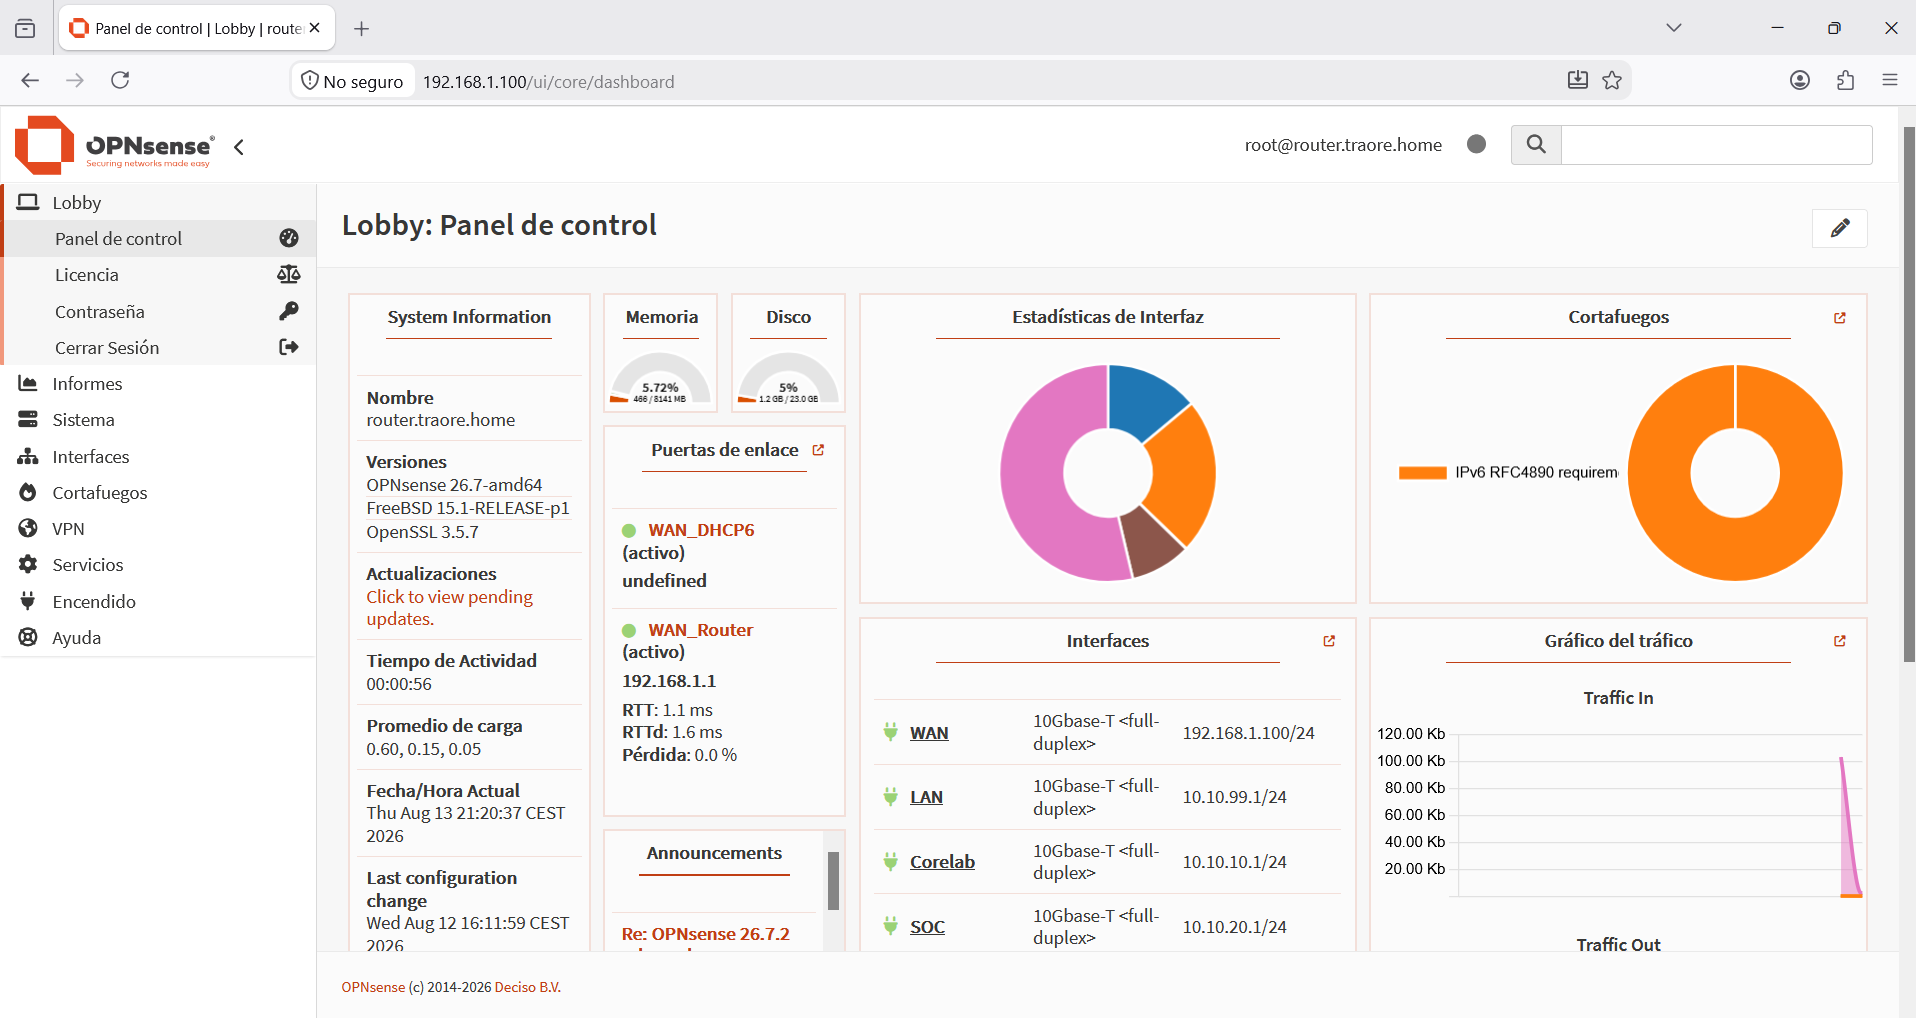
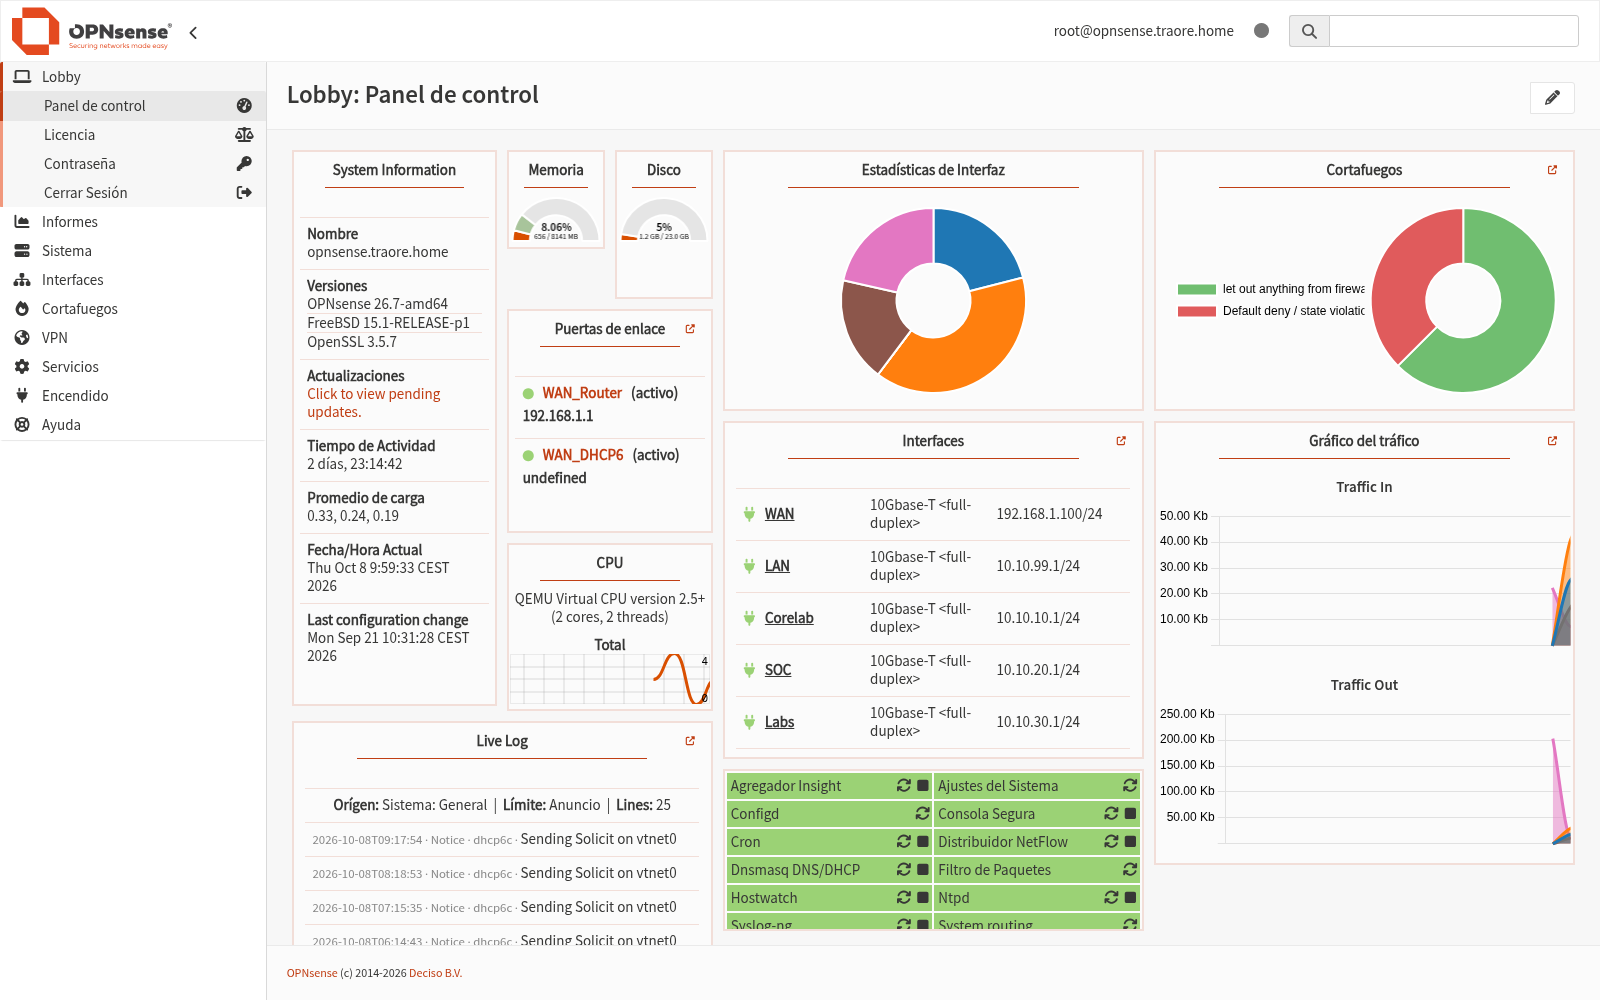
Documentación y capturas de pantalla de OPNsense (firewall y router inter-VLAN)

diff --git a/docs/services/opnsense.md b/docs/services/opnsense.md
@@ -1,0 +1,93 @@
+# OPNsense — Firewall y Router Inter-VLAN
+
+## Descripción
+
+OPNsense es el cortafuegos y router central del CoreLab. Implementa el
+enrutamiento entre las distintas VLANs del laboratorio, el NAT saliente
+compartido hacia Internet, el port-forwarding de los servicios publicados y
+el filtrado de tráfico, actuando como única puerta de enlace de los
+segmentos internos.
+
+## Objetivo
+
+- Segmentar el laboratorio en VLANs (Corelab, SOC, Labs, VPN, Management)
+  con enrutamiento inter-VLAN controlado por cortafuegos.
+- Centralizar la salida a Internet de todos los segmentos con NAT
+  compartido por la WAN.
+- Publicar los servicios internos (DNS, reverse proxy, VPN) mediante reglas
+  NAT de destino con soporte de hairpin, y filtrar el tráfico entrante/saliente.
+
+## Integración en la infraestructura
+
+- **Máquina:** VM virtual en Proxmox (VMID `1001`), hostname
+  `opnsense.traore.home`, OPNsense **26.7** (amd64) sobre FreeBSD 15.1.
+- **Interfaces físicas:**
+  - `WAN` (`vtnet0`): `192.168.1.100/24`, puerta de enlace `192.168.1.1`
+    (router Huawei BE3). La red de acceso es de doble NAT
+    (IP pública → Huawei → OPNsense).
+  - `LAN` (`vtnet1`): `10.10.99.1/24` (sin etiquetar) — *trunk* hacia el
+    `vmbr1` de Proxmox.
+- **VLANs (802.1Q sobre `vtnet1`):**
+
+  | Interfaz | VLAN | Red | Direccionamiento |
+  |---|---|---|---|
+  | Corelab | 10 | `10.10.10.0/24` | `10.10.10.1` (GW) |
+  | SOC | 20 | `10.10.20.0/24` | `10.10.20.1` (GW) |
+  | Labs | 30 | `10.10.30.0/24` | `10.10.30.1` (GW) |
+  | VPN | 40 | `10.10.40.0/24` | `10.10.40.1` (GW) |
+  | Management | 100 | `10.10.100.0/24` | `10.10.100.1` (GW) |
+
+- **NAT saliente:** todas las redes internas salen por `WAN` con rango
+  `1024:65535` y puertos estáticos para ISAKMP.
+- **NAT de destino (port-forward, con hairpin en todas las interfaces):**
+
+  | Puerto | Destino | Servicio |
+  |---|---|---|
+  | 53/tcp+udp | `10.10.10.3` | AdGuard Home (DNS *hijacking*) |
+  | 80/tcp | `10.10.10.5` | Nginx Proxy Manager (HTTP) |
+  | 443/tcp | `10.10.10.5` | Nginx Proxy Manager (HTTPS) |
+  | 8080/tcp | `10.10.10.3:80` | Interfaz de AdGuard Home |
+  | 81/tcp | `10.10.10.5:81` | Interfaz de NPM |
+  | 51820/udp | `10.10.40.2:51820` | wg-easy (VPN WireGuard) |
+
+- **Reglas de filtrado:** política por defecto de denegación; se permiten
+  SSH/ICMP (reglas flotantes), acceso a la GUI del cortafuegos (puerto
+  `8443`), salida general de las VLANs `Corelab` y `VPN`, y UDP `51820`
+  hacia wg-easy en la WAN.
+- **Servicios locales:** `dnsmasq` (resolución/forward DNS), `ntpd`
+  (hora), NetFlow y Syslog-ng (informes y registro).
+- **GUI de administración:** `http://192.168.1.100:8443` (HTTP, puerto
+  `8443`), usuario `root`.
+
+## Problemas encontrados
+
+- **Doble NAT (Huawei + OPNsense):** con solo el NAT de OPNsense, los
+  paquetes que vuelven a entrar desde la propia red (hairpin) perdían la
+  traducción de destino. Se resolvió aplicando cada regla *rdr* en todas
+  las interfaces (grupos *Interface rules*), de modo que el tráfico
+  interno hacia la IP pública se traduzca igual que el entrante desde
+  Internet; verificado con `tcpdump` en el servidor wg-easy.
+- **Bypass del DNS filtrado:** cualquier cliente que apuntara a un DNS
+  público ignoraría AdGuard Home. Se evitó con reglas *rdr* de puerto 53
+  (tcp/udp) hacia `10.10.10.3` en todas las interfaces.
+- **GUI sin TLS:** la web de administración escucha en el puerto `8443`
+  con HTTP (no HTTPS). Al probar `https://…:443` la conexión fallaba
+  (`wrong version number`); la ruta correcta es
+  `http://192.168.1.100:8443`.
+
+## Ejemplos
+
+![Panel de control de OPNsense](../../screenshots/opnsense/opnsense.png)
+*Lobby: panel de control con interfaces, puertas de enlace y estado del sistema*
+
+![Visión general de interfaces y VLANs](../../screenshots/opnsense/interfaces-overview.png)
+*Visión general de interfaces: WAN, LAN, Loopback y las VLANs 10/20/30/40/100*
+
+![Reglas NAT de destino (port-forward)](../../screenshots/opnsense/nat-port-forward.png)
+*NAT de destino: DNS → AdGuard, HTTP/HTTPS → NPM y UDP 51820 → wg-easy*
+
+![Reglas del cortafuegos](../../screenshots/opnsense/firewall-rules.png)
+*Reglas de filtrado: acceso a la GUI (8443), salida de VLANs y WireGuard en WAN*
+
+![Informe de tráfico por interfaces](../../screenshots/opnsense/informe-trafico.png)
+*Informes → Tráfico: gráficas de entrada/salida por interfaz*

diff --git a/README.md b/README.md
@@ -101,7 +101,7 @@ Más detalle en [`docs/architecture/network.md`](docs/architecture/network.md).
 | [Nginx Proxy Manager](docs/services/nginx-proxy-manager.md) | Proxy inverso y gestión de HTTPS | ✅ |
 | [WireGuard](docs/services/wireguard.md) | VPN de acceso remoto principal | ✅ |
 | [Tailscale](docs/services/tailscale.md) | VPN mesh de contingencia | ✅ |
-| [OPNsense](docs/services/opnsense.md) | Firewall y router inter-VLAN | 🔄 |
+| [OPNsense](docs/services/opnsense.md) | Firewall y router inter-VLAN | ✅ |
 | [Uptime Kuma](docs/services/uptime-kuma.md) | Monitorización de disponibilidad | ✅ |
 | [Vaultwarden](docs/services/vaultwarden.md) | Gestor de contraseñas autoalojado | ✅ |
 | [Prometheus + Grafana](docs/services/prometheus-grafana.md) | Monitorización de métricas y dashboards | ✅ |
